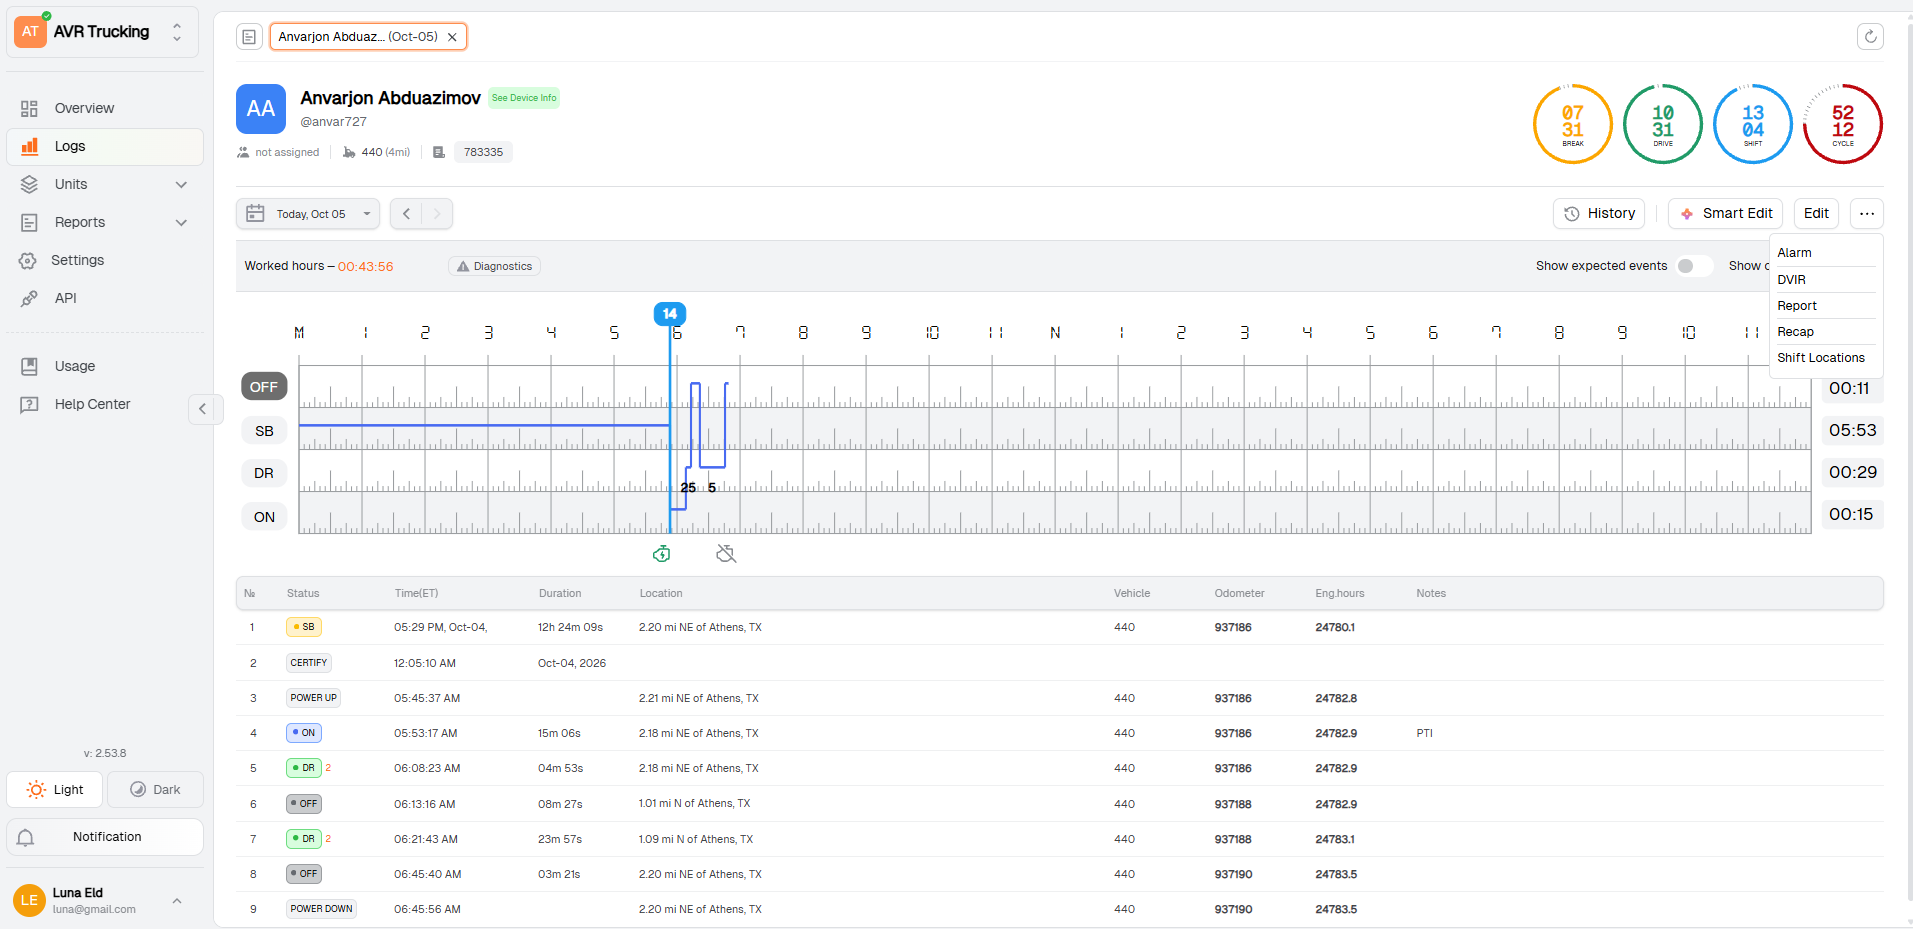
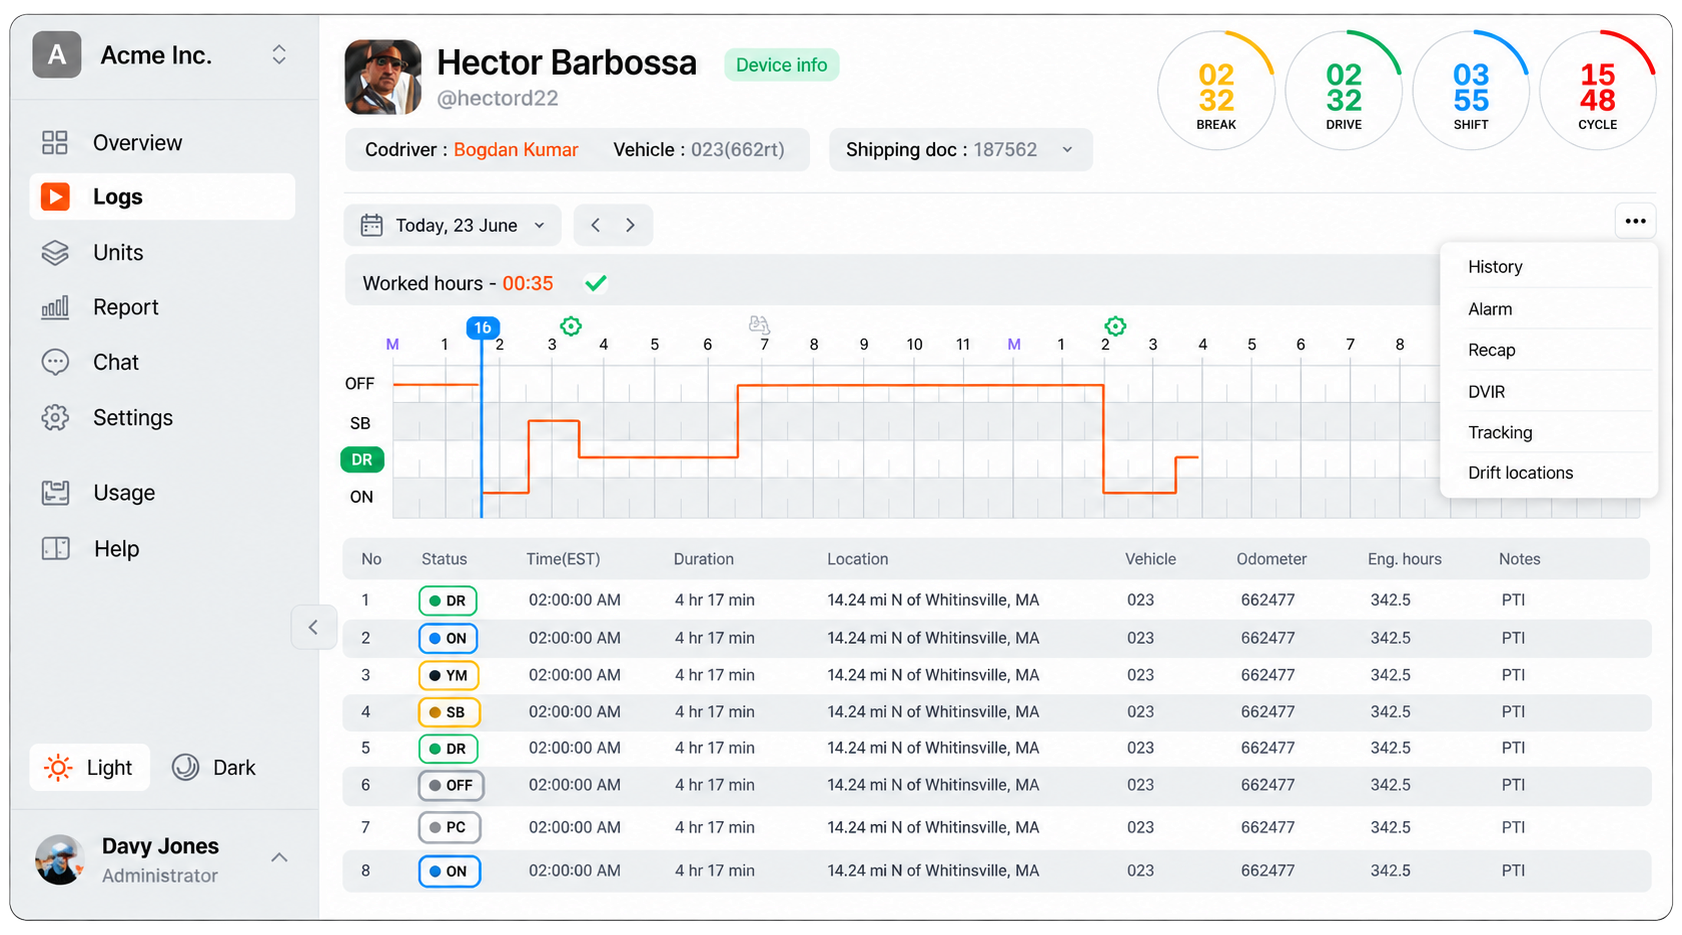
Fixes after feedback 1.0

diff --git a/src/sections/Header/Header.tsx b/src/sections/Header/Header.tsx
@@ -1,6 +1,6 @@
 
 import { useEffect, useState } from "react";
-import lunaMark from "../../Assets/icons/luna-mark.svg";
+import lunaMark from "../../Assets/icons/luna-mark.png";
 import monitorIcon from "../../Assets/icons/monitor.svg";
 import logsIcon from "../../Assets/icons/logs.svg";
 import plugIcon from "../../Assets/icons/plug.svg";
@@ -102,7 +102,6 @@ const Header = () => {
                     onClick={closeMenu}
                     aria-label="Luna ELD home">
                     <img src={lunaMark} alt="" className="header__logo-icon" />
-                    <span className="header__logo-text">Luna ELD</span>
                 </a>
                 <nav className="header__nav">
                     <div className="header__products">
@@ -113,7 +112,7 @@ const Header = () => {
                         >
                             Products
                             <span className="header__products-chevron">
-                                ↓
+                                ∨
                             </span>
                         </button>
                         <div className="header__dropdown">
@@ -156,7 +155,7 @@ const Header = () => {
                     ))}
                 </nav>
                 <div className="header__actions">
-                    <a href="#" className="header__login">Log In</a>
+                    <a href="https://staging.lunaeld.us/login" className="header__login" target="_blank">Log In</a>
                     <a href="#contact" className="header__cta">Get Started <span className="header__cta-arrow" aria-hidden="true"> → </span></a>
                 </div>
 
@@ -235,7 +234,8 @@ const Header = () => {
                     </nav>
                     <div className="header__mobile-actions">
                         <a
-                            href="#"
+                            href="https://staging.lunaeld.us/login"
+                            target="_blank"
                             className="header__mobile-login"
                             onClick={closeMenu}
                         >

diff --git a/src/sections/Header/Header.scss b/src/sections/Header/Header.scss
@@ -14,8 +14,7 @@
     &--scrolled {
         background: rgba(255, 255, 255, 0.88);
         border-color: rgba(17, 19, 24, 0.06);
-        backdrop-filter: blur(18px);
-        -webkit-backdrop-filter: blur(18px);
+        backdrop-filter: blur(10px);
         box-shadow:
             0 1px 2px rgba(16, 24, 40, 0.02),
             0 8px 30px rgba(16, 24, 40, 0.04);
@@ -31,9 +30,7 @@
     &__logo {
         display: flex;
         align-items: center;
-        gap: 10px;
         flex-shrink: 1;
-        color: $black;
         transition: opacity $transition-fast;
 
         &:hover {
@@ -41,15 +38,9 @@
         }
 
         &-icon {
-            width: 30px;
-            height: 30px;
+            width: auto;
+            height: 35px;
             object-fit: contain;
-        }
-
-        &-text {
-            font-size: 18px;
-            font-weight: 700;
-            letter-spacing: -0.025em;
         }
     }
 
@@ -476,27 +467,14 @@
             gap: 12px;
         }
 
-        &__logo {
-            gap: 8px;
-            min-width: 0;
-        }
-
         &__logo-icon {
-            width: 26px;
             height: 26px;
-        }
-
-        &__logo-text {
-            font-size: 16px;
-            white-space: nowrap;
         }
 
         &__burger {
             flex-shrink: 0;
-
             width: 40px;
             height: 40px;
-
             margin-left: auto;
         }
 
@@ -513,12 +491,7 @@
                 gap: 12px;
             }
 
-            &__logo-text {
-                font-size: 15px;
-            }
-
             &__logo-icon {
-                width: 24px;
                 height: 24px;
             }
 

diff --git a/src/sections/Hero/Hero.scss b/src/sections/Hero/Hero.scss
@@ -47,13 +47,12 @@
     }
 
     &__title {
-        font-size: clamp(52px, 5vw, 68px);
+        font-size: 52px;
         line-height: 0.98;
         letter-spacing: -0.055em;
         color: $black;
 
         span {
-            display: block;
             color: $orange;
         }
     }
@@ -82,8 +81,8 @@
 
     &__visual {
         position: relative;
-        width: 100%;
-        min-width: 0;
+        max-width: 850px;
+        width: 150%;
         display: flex;
         align-items: center;
         justify-content: flex-end;
@@ -93,7 +92,7 @@
     &__image {
         display: block;
         width: 100%;
-        max-width: 760px;
+        max-width: 850px;
         height: auto;
         object-fit: contain;
         filter: drop-shadow(0 28px 35px rgba(16, 24, 40, 0.12));
@@ -103,7 +102,6 @@
 
         &:hover {
             transform: translateY(-5px);
-
             filter: drop-shadow(0 34px 45px rgba(16, 24, 40, 0.15));
         }
     }
@@ -113,8 +111,12 @@
             gap: 40px;
         }
 
+        &__visual {
+            width: 100%;
+        }
+
         &__image {
-            width: 112%;
+            width: 100%;
         }
     }
 
@@ -146,6 +148,7 @@
 
         &__visual {
             max-width: 900px;
+            width: 100%;
             margin: auto;
         }
 
@@ -198,6 +201,7 @@
             margin: auto;
             justify-content: flex-start;
             gap: 12px;
+            margin-top: 20px;
         }
 
         &__trust-item {

diff --git a/src/sections/Footer/Footer.tsx b/src/sections/Footer/Footer.tsx
@@ -1,6 +1,6 @@
 import Container from "../../components/Container";
 
-import lunaMark from "../../Assets/icons/luna-mark.svg";
+import lunaMark from "../../Assets/icons/luna-mark.png";
 
 import "./Footer.scss";
 
@@ -19,8 +19,6 @@ const Footer = () => {
               alt=""
               className="footer__logo"
             />
-
-            <span>Luna ELD</span>
           </a>
 
           <p className="footer__copyright">

diff --git a/src/sections/Hero/Hero.tsx b/src/sections/Hero/Hero.tsx
@@ -23,10 +23,10 @@ const Hero = () => {
             </Badge>
 
             <h1 className="hero__title">
-              Modern ELD platform
+              Simplyfy Every Mile with 
               <span>
                 {" "}
-                for smarter fleet management.
+                Luna ELD
               </span>
             </h1>
 

diff --git a/src/components/SectionTitle/SectionTitle.tsx b/src/components/SectionTitle/SectionTitle.tsx
@@ -26,7 +26,7 @@ const SectionTitle = ({
                 .join(" ")}
         >
             {eyebrow && (
-                <span className="section-ttile__eyebrow">
+                <span className="section-title__eyebrow">
                     {eyebrow}
                 </span>
             )}

diff --git a/src/sections/Footer/Footer.scss b/src/sections/Footer/Footer.scss
@@ -25,8 +25,8 @@
     }
 
     &__logo {
-        width: 26px;
-        height: 26px;
+        width: auto;
+        height: 35px;
     }
 
     &__copyright {

diff --git a/src/styles/_variables.scss b/src/styles/_variables.scss
@@ -1,6 +1,6 @@
 
-$orange: #ff641e;
-$orange-hover: #e95412;
+$orange: #fe8d4e;
+$orange-hover: #ff641e; 
 $orange-light: #fff2eb;
 $orange-soft: #fff8f4;
 

diff --git a/src/styles/_mixins.scss b/src/styles/_mixins.scss
@@ -1,5 +1,5 @@
 @mixin desktop {
-  @media (max-width: 1200px) {
+  @media (max-width: 1280px) {
     @content;
   }
 }
